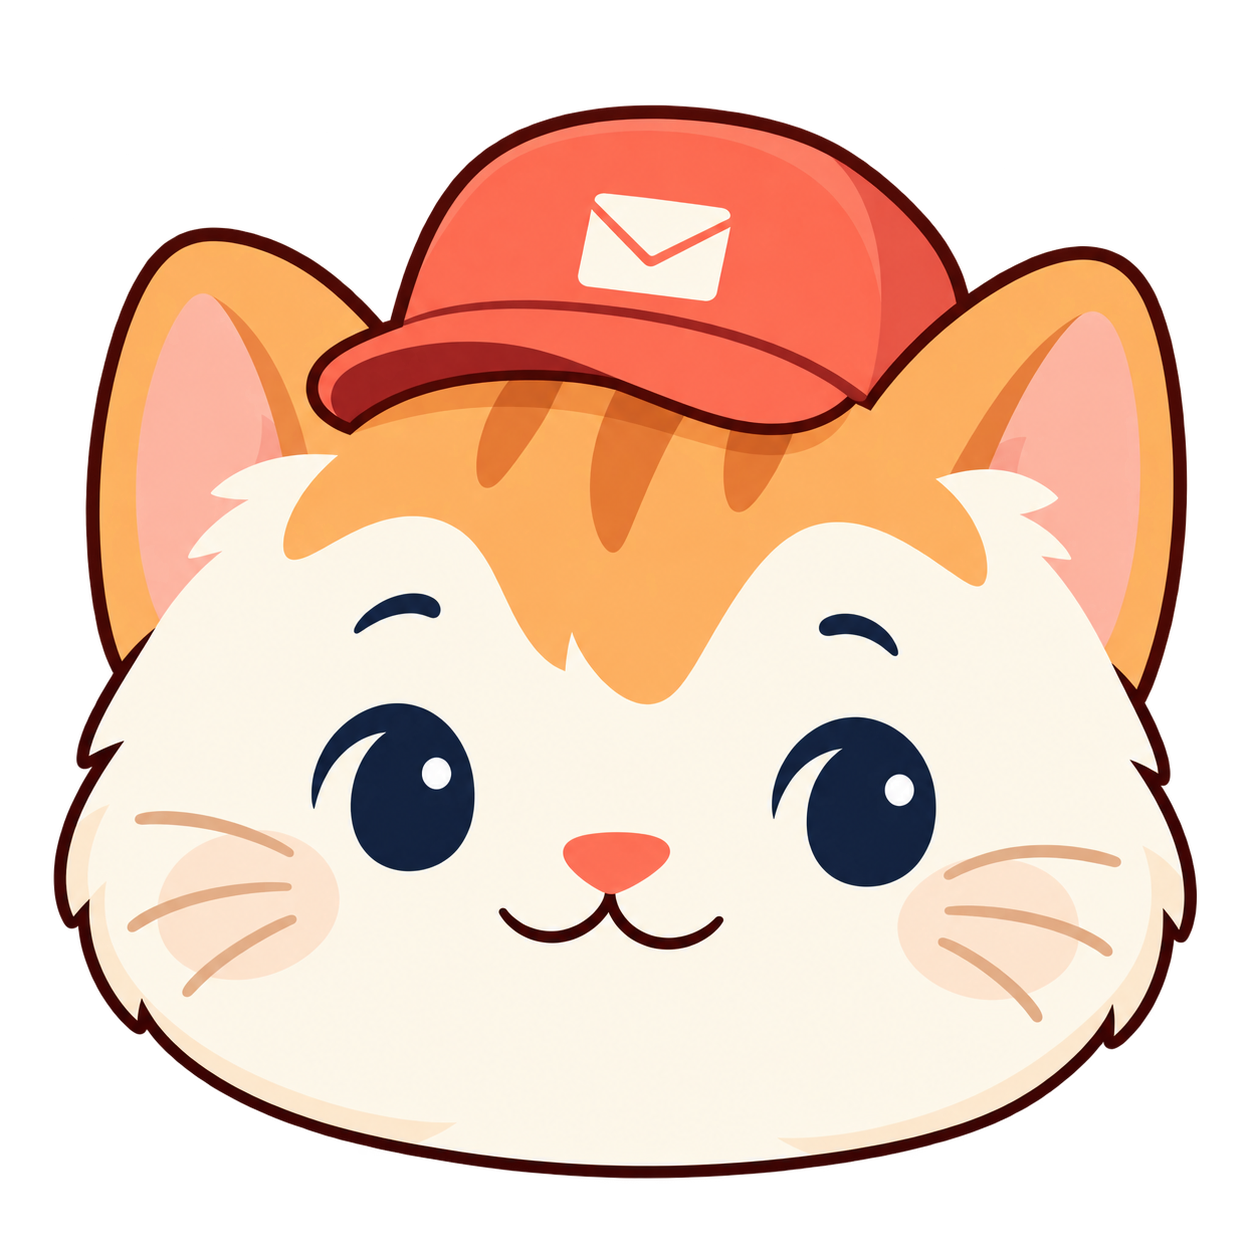
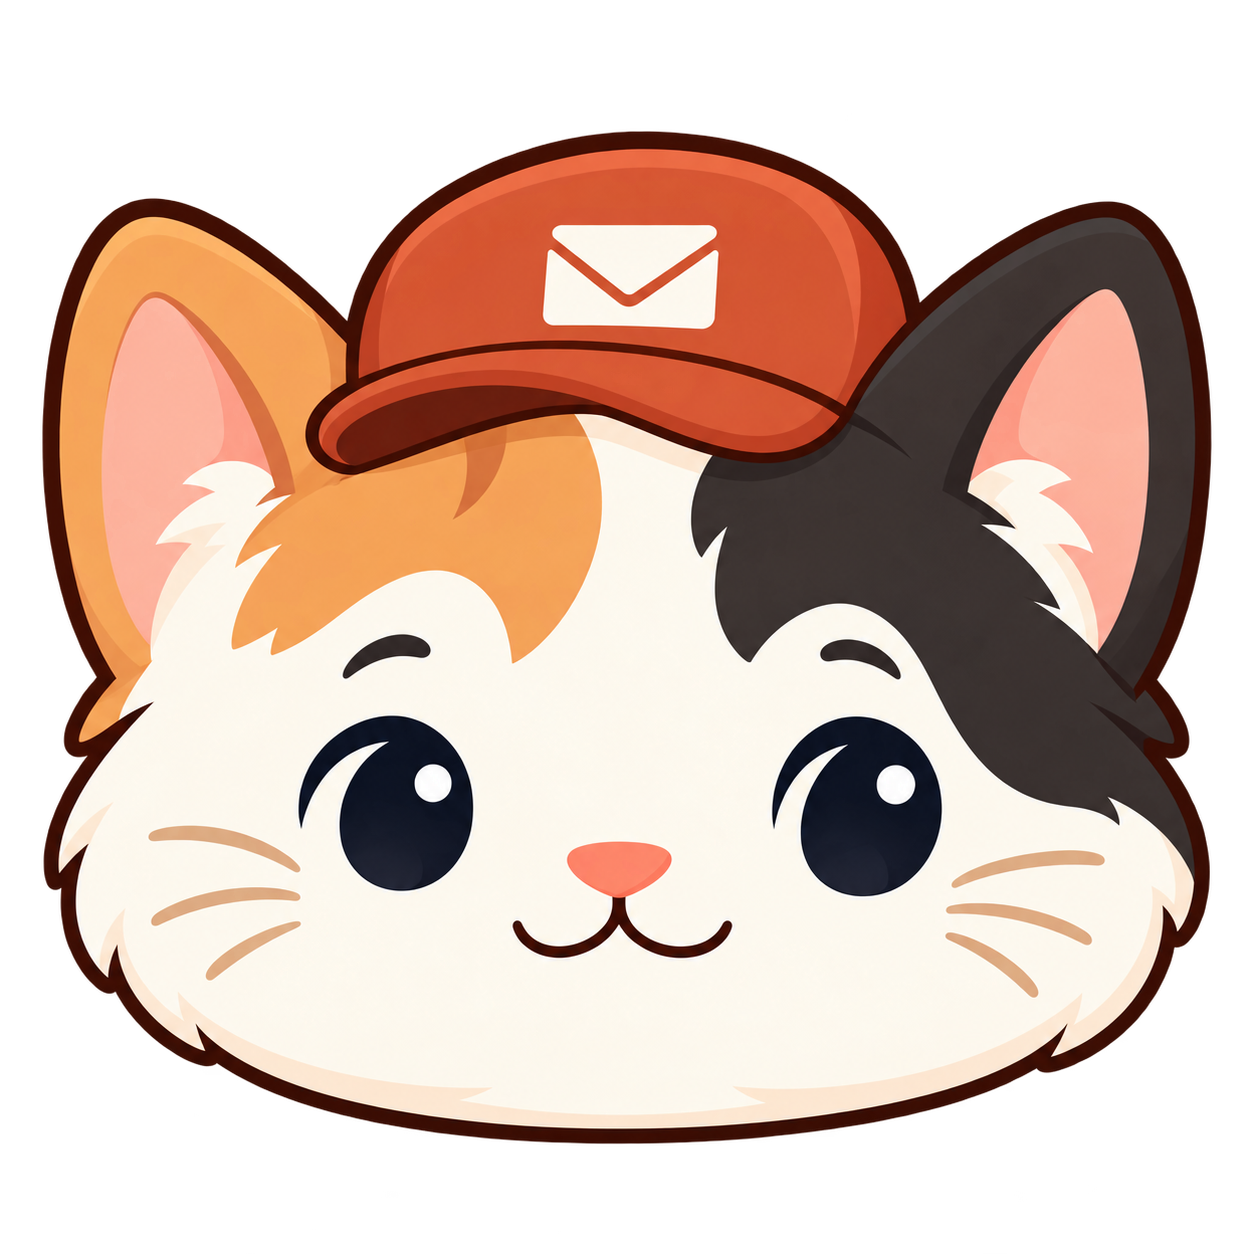
feat: redesign arcat with a calico courier identity

diff --git a/docs/ARCAT_BRAND.md b/docs/ARCAT_BRAND.md
@@ -1,22 +1,50 @@
-# arcat 브랜드와 집배원 고양이
+# arcat 브랜드와 삼색 집배원 고양이
 
-> 갱신일: 2026-10-10 · 사용자 요청에 따른 제품명·캐릭터 확장
+> 갱신일: 2026-10-11 KST · 삼색 집배원 고양이·제품 색상·상황별 인터랙션
 
-제품 표기는 소문자 **arcat**을 사용한다. KRDS 기반의 기존 색상·접근성·정보 구조를 유지하면서 따뜻한 집배원 고양이로 팀의 업무 전달 경험을 표현한다.
+제품 표기는 소문자 **arcat**을 사용한다. KRDS의 토큰 계층·접근성·정보 구조를 바탕으로, 삼색 집배원 고양이와 우편 문구류의 색을 제품 전체에 연결한다. 캐릭터는 팀이 업무를 전달하고 함께 마무리하는 경험을 표현한다.
 
 ## 캐릭터와 자산
 
-크림색 고양이, 짙은 파란색 집배원 가방, 작은 편지와 산호색 포인트를 사용한다. 생성한 동일 캐릭터를 로그인·가입·첫 워크스페이스 안내, 로고·favicon·README 배너에 연결한다. 캐릭터는 업무 내용을 가리지 않는 보조 요소이며 중요한 메시지는 항상 텍스트로 제공한다.
+고양이 털은 **크림색 바탕·진저색 무늬·차콜색 무늬**의 삼색이다. 모자나 가방만 세 가지 색으로 칠해 삼색 고양이를 대신하지 않는다. 구리색 집배원 모자, 차콜 우편 가방과 편지는 역할을 보여 주는 식별 요소다. 마크·기본 인사·시선 추적·눈 가림·편지 전달·축하 자세는 같은 얼굴과 털 무늬를 유지한다.
+
+생성한 원본은 [브랜드 자산](brand/README.md)에 모은다. 앱은 CSS로 크기·배치·짧은 동작을 조절한다. 캐릭터는 업무 내용을 가리지 않는 보조 요소이며 중요한 메시지는 항상 텍스트로 제공한다.
+
+## 제품 색상
+
+| 역할 | 값 | 적용 |
+| --- | --- | --- |
+| 구리색 | `#A64B2A` / hover `#873B21` | 주 버튼·링크·선택·포커스 |
+| 차콜 | `#282520` | 제목·본문·캐릭터의 짙은 무늬 |
+| 따뜻한 바탕 | `#FAF7F2` | 전체 앱 배경 |
+| 크림색 | `#F2E9DC` | 보조 표면·온보딩 패널 |
+| 진저색 | `#DF995B` | 장식·빛·캐릭터 포인트 |
+
+진저색은 흰색과의 대비가 낮아 작은 글자·입력 경계·주 버튼에 사용하지 않는다. 오류·성공·주의는 별도의 의미 색과 문구로 유지한다. 화면은 원시 색상 대신 `--arc-color-*`를 소비하며, 정확한 토큰과 대비 근거는 [디자인 가이드](DESIGN_GUIDE.md#색상-토큰)에 기록한다.
 
 ## 화면 적용
 
-- 로그인·가입: 넓은 화면의 안내 패널에 큰 캐릭터와 제품 소개를 배치한다. 작은 화면에서는 입력 공간을 우선한다.
-- 온보딩: 가입·이메일 확인·첫 워크스페이스/프로젝트 안내에 편지를 전달하는 캐릭터를 사용한다.
-- 티켓과 설정: 배정 안내·성공 메시지 등 의미가 있는 순간에 작은 캐릭터와 짧은 전달 동작을 적용한다. 현재 제공하지 않는 알림 수신 기능이 있는 것처럼 표현하지 않는다.
+- 상단 탐색: 삼색 얼굴 마크와 `arcat` 글자를 함께 사용한다. 프로젝트 사이드바에는 같은 로고를 반복하지 않는다. 작은 화면에서도 프로젝트 이름과 탐색 조작 공간을 확보한다.
+- 로그인·가입: 넓은 안내 패널의 캐릭터가 마우스 방향을 눈으로 보고 몸을 조금 기울인다. 작은 화면에서는 입력 공간을 우선한다. 비밀번호에 초점을 두면 앞발로 눈을 가리는 자세로 전환한다.
+- 온보딩: 가입·이메일 확인·첫 워크스페이스/프로젝트 안내에는 인사·편지 전달 등 상황에 맞는 자세를 사용한다.
+- 티켓과 설정: 배정 안내·저장 결과·비어 있는 업무 안내에 작은 캐릭터와 짧은 동작을 적용한다. 기본 자세 하나를 모든 상황에 반복하지 않고 전달·축하 자세로 의미를 구분한다. 현재 제공하지 않는 알림 수신 기능이 있는 것처럼 표현하지 않는다.
+- 업무 빈 상태: WBS에 실제 티켓이 없을 때는 인사 자세와 역할에 맞는 다음 행동을, 조회를 마쳤지만 진행 중 스프린트가 없을 때는 차분한 자세와 안내를 제공한다. 필터 결과만 비어 있거나 조회 중·실패 상태이면 빈 업무 캐릭터를 대신 표시하지 않는다.
 - GitHub: 제품명·로고·배너·기능 설명과 실제 제품 화면 자료를 갱신한다.
 
 ## 동작과 접근성
 
-애니메이션은 짧은 등장·손인사·편지 전달을 CSS로 구현한다. 폼 입력과 표를 방해하는 지속적인 큰 움직임은 피한다. `prefers-reduced-motion`에서는 정지 이미지로 제공하며 장식 이미지는 빈 대체 텍스트를 사용한다. 제품 식별용 로고에는 arcat 대체 텍스트를 제공한다.
+### 시선과 개인정보
 
-제품명 변경은 데이터 식별자·API 경로·이미 배포된 환경 변수와 독립적으로 적용한다. 화면과 새 이메일의 제품명을 통일하고 기존 인증·필드 설정·권한 흐름을 검증한다.
+- 시선 추적은 해당 화면이 `interactive`를 지정하고, 정밀 포인터와 모션 허용 환경이 모두 충족될 때 활성화한다. 터치 동작은 추적하지 않는다.
+- 시선 추적 화면에서는 인사·전달 같은 등장 모션을 함께 재생하지 않는다. 모션 감소·터치 중심 환경은 기본 정지 자세로 돌아간다.
+- 최신 포인터 위치만 한 프레임씩 반영한다. 몸 이동은 최대 가로 5px·세로 3px·회전 1.4도이며 눈동자도 제한된 범위에서 움직인다. 페이지 밖으로 포인터가 나가거나 창이 초점을 잃으면 중심으로 돌아온다.
+- 비밀번호 **초점 상태**만으로 `privacy`를 전환한다. 비밀번호 값이나 입력 길이를 읽어 모션에 전달하지 않는다. 눈을 가리는 동안 시선 추적을 멈추고 위치를 초기화하며, 초점을 옮기면 정상 자세를 복원한다.
+- 모션 감소·굵은 포인터 환경에서는 정지 자세를 제공한다. 비밀번호 초점의 정지 눈 가림 이미지는 유지한다. 환경이 바뀌거나 컴포넌트를 닫으면 이벤트·애니메이션 프레임을 정리한다.
+
+### 짧은 상황별 동작
+
+인사·편지 전달·저장 축하·마크 반응은 유한한 동작이다. 폼 입력과 표를 방해하는 지속적인 큰 움직임은 피한다. `prefers-reduced-motion`에서는 시선 추적과 장식 애니메이션을 모두 멈추며, 업무 결과·오류·다음 행동은 그대로 제공한다. 장식 이미지는 빈 대체 텍스트를 사용하고 제품 로고 링크에는 arcat을 포함한 접근 가능한 이름을 제공한다.
+
+공통 `Mascot`의 `variant`는 `welcome`, `deliver`, `celebrate`, `idle`이며 `size`, `label`, `className`으로 배치를 조절한다. `interactive`와 `privacy`의 기본값은 `false`다. 로그인 이외의 화면에서는 필요한 순간의 자세를 명시하며 시선 추적을 자동으로 켜지 않는다.
+
+제품명 변경은 데이터 식별자·API 경로·이미 배포된 환경 변수와 독립적으로 적용한다. 화면과 새 이메일의 제품명을 통일하고 기존 인증·필드 설정·권한 동작을 검증한다.

diff --git a/docs/DESIGN_GUIDE.md b/docs/DESIGN_GUIDE.md
@@ -2,7 +2,7 @@
 
 > 후속 검토: [디자인 재기획 v2](DESIGN_REPLAN.md)에서 현재 화면 진단, 새로운 정보 구조, 컴포넌트 계약과 구현 순서를 정리했다.
 
-> 상태: arcat 디자인 시스템 v2 · 2026-10-06 · 구현 기준은 `frontend/src/shared/styles/tokens.css`
+> 상태: arcat 디자인 시스템 v2 · 삼색 집배원 브랜드 확장 2026-10-11 · 구현 기준은 `frontend/src/shared/styles/tokens.css`
 
 ## 1. 제품 경험
 
@@ -34,7 +34,7 @@ KRDS를 그대로 복제하지 않는다. KRDS의 기반 토큰과 컴포넌트 
 └─ 팀 설정: 멤버·초대
 ```
 
-- 데스크톱: 왼쪽 프로젝트 탐색 232px, 상단 64px에 워크스페이스·프로젝트 선택·계정, 오른쪽 본문.
+- 데스크톱: 왼쪽 프로젝트 탐색 232px, 상단 64px에 arcat 얼굴 마크·워크스페이스·프로젝트 선택·계정, 오른쪽 본문. 프로젝트 사이드바에는 브랜드 로고를 반복하지 않는다.
 - 모바일: 프로젝트 선택은 상단, 보기 탐색은 하단에 둔다. 보드·표·간트 데이터 영역은 가로 스크롤하고 이슈 상세는 본문에서 연다.
 - 이슈 상세는 고유 URL을 가진다. 데스크톱에서 패널로 열더라도 새로고침과 링크 공유가 가능해야 한다.
 - 목록·보드·백로그는 같은 검색어와 필터 규칙을 사용한다.
@@ -49,23 +49,28 @@ KRDS를 그대로 복제하지 않는다. KRDS의 기반 토큰과 컴포넌트 
 
 | 용도 | 값 | 사용 |
 | --- | --- | --- |
-| 바탕 | `#F7F8FA` | 앱 배경 |
+| 바탕 | `#FAF7F2` | 앱 배경 |
 | 표면 | `#FFFFFF` | 카드·패널·대화상자 |
-| 기본 글자 | `#17212F` | 제목·본문 |
-| 보조 글자 | `#5F6B7A` | 메타 정보 |
-| 경계 | `#D9E0E8` | 패널·표의 장식적 구분선 |
-| 입력 경계 | `#7B8797` | 입력·선택·윤곽 버튼의 식별 가능한 경계 |
-| 주 행동 | `#315CF5` | arcat 브랜드 확장 토큰: 주요 버튼·활성 탐색 |
-| 위험 | `#B42318` | 삭제·오류 |
+| 보조 표면 | `#F2E9DC` | 크림색 안내 패널·보조 영역 |
+| 우편 종이 | `#FFFCF7` | 탐색·브랜드 패널의 밝은 바탕 |
+| 기본 글자 | `#282520` | 차콜 제목·본문 |
+| 보조 글자 | `#665E54` | 메타 정보 |
+| 경계 | `#DDD3C6` | 패널·표의 장식적 구분선 |
+| 입력 경계 | `#908171` | 입력·선택·윤곽 버튼의 식별 가능한 경계 |
+| 주 행동 | `#A64B2A` | 구리색 주요 버튼·링크·활성 탐색·포커스 |
+| 주 행동 hover | `#873B21` | hover·선택 글자 |
+| 선택 바탕 | `#F8E9DD` | 선택 행·탐색·필터 |
+| 진저 장식 | `#DF995B` | 캐릭터·장식 전용 포인트 |
+| 위험 | `#AC322D` | 삭제·오류 |
 
-상태는 글자와 아이콘/레이블을 함께 사용한다. 색만으로 의미를 전달하지 않는다.
+삼색 털과 우편 문구류의 색을 브랜드로 확장한다. 진저 장식은 흰색과 2.37:1이므로 작은 글자·입력 경계·주 행동에 사용하지 않는다. 상태는 글자와 아이콘/레이블을 함께 사용하며 색만으로 의미를 전달하지 않는다.
 
-| 상태 | 배경 | 글자 |
+| 의미 | 배경 | 글자 |
 | --- | --- | --- |
-| 할 일 | `#EEF1F4` | `#405164` |
-| 진행 중 | `#EAF1FF` | `#1D4ED8` |
-| 검토 | `#FFF3D6` | `#92400E` |
-| 완료 | `#E7F5EB` | `#166534` |
+| 선택 | `#F8E9DD` | `#873B21` |
+| 주의 | `#FFF2D7` | `#775118` |
+| 오류 | `#FCEEEB` | `#AC322D` |
+| 성공 | `#EDF4EE` | `#286046` |
 
 ### 글자·간격·형태
 
@@ -140,7 +145,7 @@ KRDS의 토큰 계층과 접근성 원칙을 채택한다. arcat의 값이나 `-
 
 | KRDS 기준 | arcat 대응 | 확장 이유 |
 | --- | --- | --- |
-| 기본 색·서체·간격·반경 | `--arc-blue-*`, `--arc-neutral-*`, Pretendard GOV, 4px 간격 | arcat 브랜드와 데이터 화면의 밀도 |
+| 기본 색·서체·간격·반경 | `--arc-copper-*`, `--arc-ginger-*`, `--arc-neutral-*`, Pretendard GOV, 4px 간격 | 삼색 집배원 브랜드와 데이터 화면의 밀도 |
 | 의미에 따른 토큰 사용 | `--arc-color-action-*`, `text-muted`, `border-control`, `danger`, `success` | 동일한 상태를 모든 화면에서 표현 |
 | 컴포넌트 크기·상태 | `--arc-control-height*`, `--arc-focus-*` | 폼 40px, 주요 행동 44px, 밀집 조작 32px |
 | 접근 가능한 정보 제공 | `--arc-gantt-*`, `--arc-data-row-height` | 48px 행, 완료/남은 구간·관계·오늘·진행선 구분 |
@@ -162,14 +167,20 @@ WCAG 상대 휘도 공식으로 산출한 밝은 화면의 토큰 대비다. 전
 
 | 조합 | 대비 |
 | --- | --- |
-| 주 행동 `#315CF5` / 흰색 | 5.28:1 |
-| 보조 글자 `#5F6B7A` / 흰색 | 5.43:1 |
-| 입력 경계 `#7B8797` / 흰색 | 3.65:1 |
-| 간트 Task 완료 / 남은 구간 | 3.97:1 |
-| 간트 Epic 완료 / 남은 구간 | 5.07:1 |
-| 간트 Bug 완료 / 남은 구간 | 3.72:1 |
+| 주 행동 `#A64B2A` / 흰색 | 5.74:1 |
+| hover `#873B21` / 흰색 | 7.84:1 |
+| 본문 `#282520` / 바탕 `#FAF7F2` | 14.28:1 |
+| 보조 글자 `#665E54` / 흰색 | 6.38:1 |
+| 입력 경계 `#908171` / 흰색 | 3.77:1 |
+| 간트 Task 완료 `#A64B2A` / 남은 구간 `#F0D4BF` | 4.06:1 |
+| 간트 Epic 완료 `#514D48` / 남은 구간 `#D9D3C9` | 5.63:1 |
+| 간트 Bug 완료 `#AC322D` / 남은 구간 `#F4CECA` | 4.47:1 |
 
 얇은 표 구분선은 장식적 경계이고, 입력 경계와 간트 데이터 도형은 3:1 식별 기준을 적용한다. 색 이외에 레이블·선 모양·선택 상세를 함께 제공한다.
+
+### 캐릭터와 상호작용
+
+상단 로고·온보딩·메일·배정·저장·빈 상태는 [삼색 집배원 브랜드 계약](ARCAT_BRAND.md)을 따른다. 로그인에서만 정밀 포인터 시선 추적을 명시적으로 켜며, 비밀번호 초점은 눈 가림 자세로 전환한다. 작은 몸·눈 움직임과 짧은 인사·전달·축하가 정보와 조작을 가리지 않아야 한다. 모션 감소·터치 중심 환경에서는 정지 자세로 같은 안내를 제공한다.
 
 ## 9. 참고 기준
 

diff --git a/docs/brand/README.md b/docs/brand/README.md
@@ -1,11 +1,15 @@
 # arcat 브랜드 자산
 
-집배원 고양이는 팀의 업무를 전달하는 arcat의 캐릭터입니다. 크림색·진저색 몸, 산호색 집배원 모자, 네이비 우편 가방과 편지가 식별 요소입니다.
+집배원 고양이는 팀의 업무를 전달하는 arcat의 캐릭터입니다. 크림색 바탕에 진저색·차콜색 털 무늬가 있는 **삼색 고양이**이며, 구리색 집배원 모자·차콜 우편 가방·편지가 식별 요소입니다. 제품 버튼·탐색·배경도 같은 색을 바탕으로 구성합니다.
 
 | 자산 | 용도 |
 | --- | --- |
-| [캐릭터 원본](../../frontend/public/brand/postcat.png) | 로그인·온보딩·티켓 배정·상태 안내의 투명 PNG |
-| [브랜드 마크](../../frontend/public/brand/arcat-mark.png) | 앱 로고·favicon·터치 아이콘의 투명 PNG |
+| [캐릭터 원본](../../frontend/public/brand/postcat.png) | 로그인·온보딩·상태 안내의 투명 PNG |
+| [시선 자세](../../frontend/public/brand/postcat-look.png) | 로그인·가입의 마우스 시선 추적용 얼굴·몸 |
+| [눈 가림 자세](../../frontend/public/brand/postcat-private.png) | 비밀번호 필드에 초점을 둘 때의 정지 눈 가림 |
+| [편지 전달 자세](../../frontend/public/brand/postcat-delivery.png) | 이메일 확인·초대·티켓 배정 안내 |
+| [축하 자세](../../frontend/public/brand/postcat-celebrate.png) | 실제 저장 결과를 안내하는 짧은 축하 |
+| [브랜드 마크](../../frontend/public/brand/arcat-mark.png) | 상단 탐색 로고·favicon·터치 아이콘의 투명 PNG |
 | [README 배너](arcat-banner.png) | GitHub 제품 소개 |
 
-이미지 생성 도구로 제작한 원본을 그대로 사용합니다. 배너는 브랜드 일러스트이며 [실제 제품 화면 사진](../product/README.md)과 구분합니다. 앱에서는 CSS로 크기를 조절하고 짧은 전달·축하 동작을 적용합니다. 모션 감소 설정에서는 정지 이미지로 표시합니다. 캐릭터 사용 기준은 [브랜드 가이드](../ARCAT_BRAND.md)를 따릅니다.
+이미지 생성 도구로 제작한 원본을 그대로 사용합니다. 배너는 브랜드 일러스트이며 [실제 제품 화면 사진](../product/README.md)과 구분합니다. 앱에서는 CSS로 크기를 조절하고 시선·짧은 인사·전달·축하 동작을 적용합니다. 시선 추적은 정밀 포인터·모션 허용 환경에서만 활성화하며 캐릭터에 비밀번호 값을 전달하지 않습니다. 모션 감소·터치 중심 환경에서는 정지 자세를 표시합니다. 캐릭터 사용 기준은 [브랜드 가이드](../ARCAT_BRAND.md)를 따릅니다.
